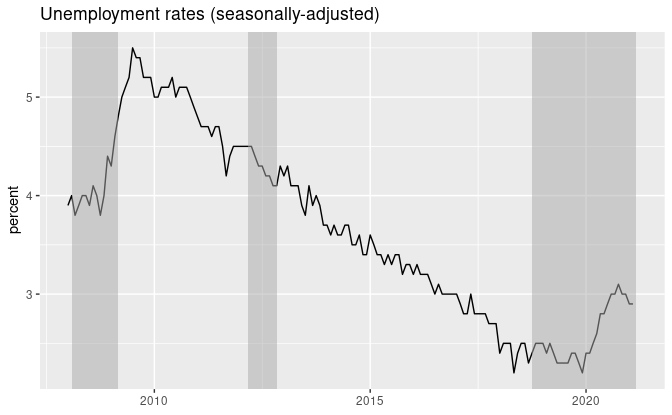
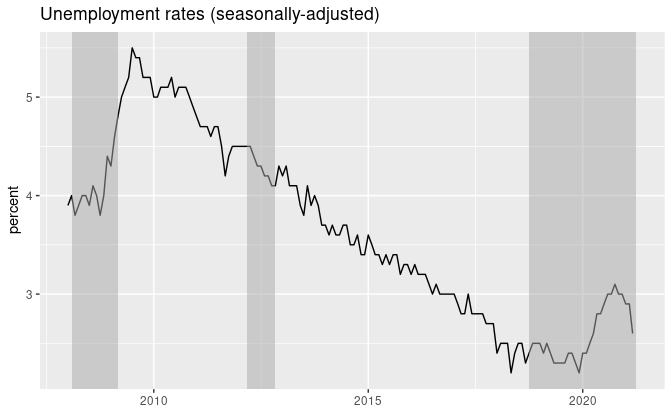
add March 2021 unemployment rate

diff --git a/README.md b/README.md
@@ -10,7 +10,7 @@ Mitsuo Shiota
 -   [Suicide cases are bouncing back, but not as fast as the program
     suggests](#suicide-cases-are-bouncing-back-but-not-as-fast-as-the-program-suggests)
 
-Updated: 2021-04-20
+Updated: 2021-04-30
 
 ## Motivation
 
